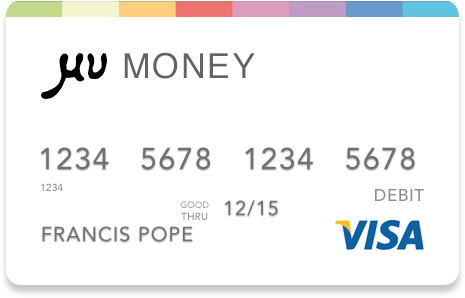
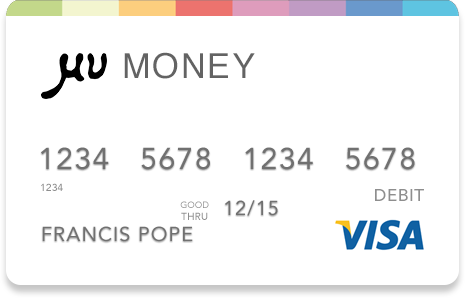
add credit card and emerald background

Changed region(s): [[0.0301, 0.0, 0.9935, 0.0604]]

diff --git a/index.html b/index.html
@@ -44,10 +44,17 @@
 
           <section class="hero">
             <div class="content headline">
-              <h1>MU Money</h1>
-              <h3>Help us Build the Future of Banking</h3>
-              <div class="call-to-action">
-                <button type="button" class="call-to-action btn btn-success btn-lg" data-toggle="modal" data-target="#invite">Get your invite today</button>   
+              <div class="row">
+                <div class="col-sm-6">
+                  <h1>MU Money</h1>
+                  <h3>Help us Build the Future of Banking</h3>
+                  <div class="call-to-action">
+                    <button type="button" class="call-to-action btn btn-success btn-lg" data-toggle="modal" data-target="#invite">Get your invite today</button>   
+                  </div>
+                </div>
+                <div class="col-sm-4">
+                  <img class="img-responsive" src="public/img/mu-card.png">
+                </div>
               </div>
             </div>
 

diff --git a/css/my-styles.css b/css/my-styles.css
@@ -41,10 +41,11 @@ h1 {
 }
 
 .header {
-	background-position: 50% 90%;
+  background-color: #009B77;
 	text-align: center;
+  /* background-position: 50% 90%;
 	background-image: url("../public/img/bg-desk.jpg");
-	background-repeat: no-repeat;
+	background-repeat: no-repeat; */
 }
 
 .container { /* to fill the entire viewport */
